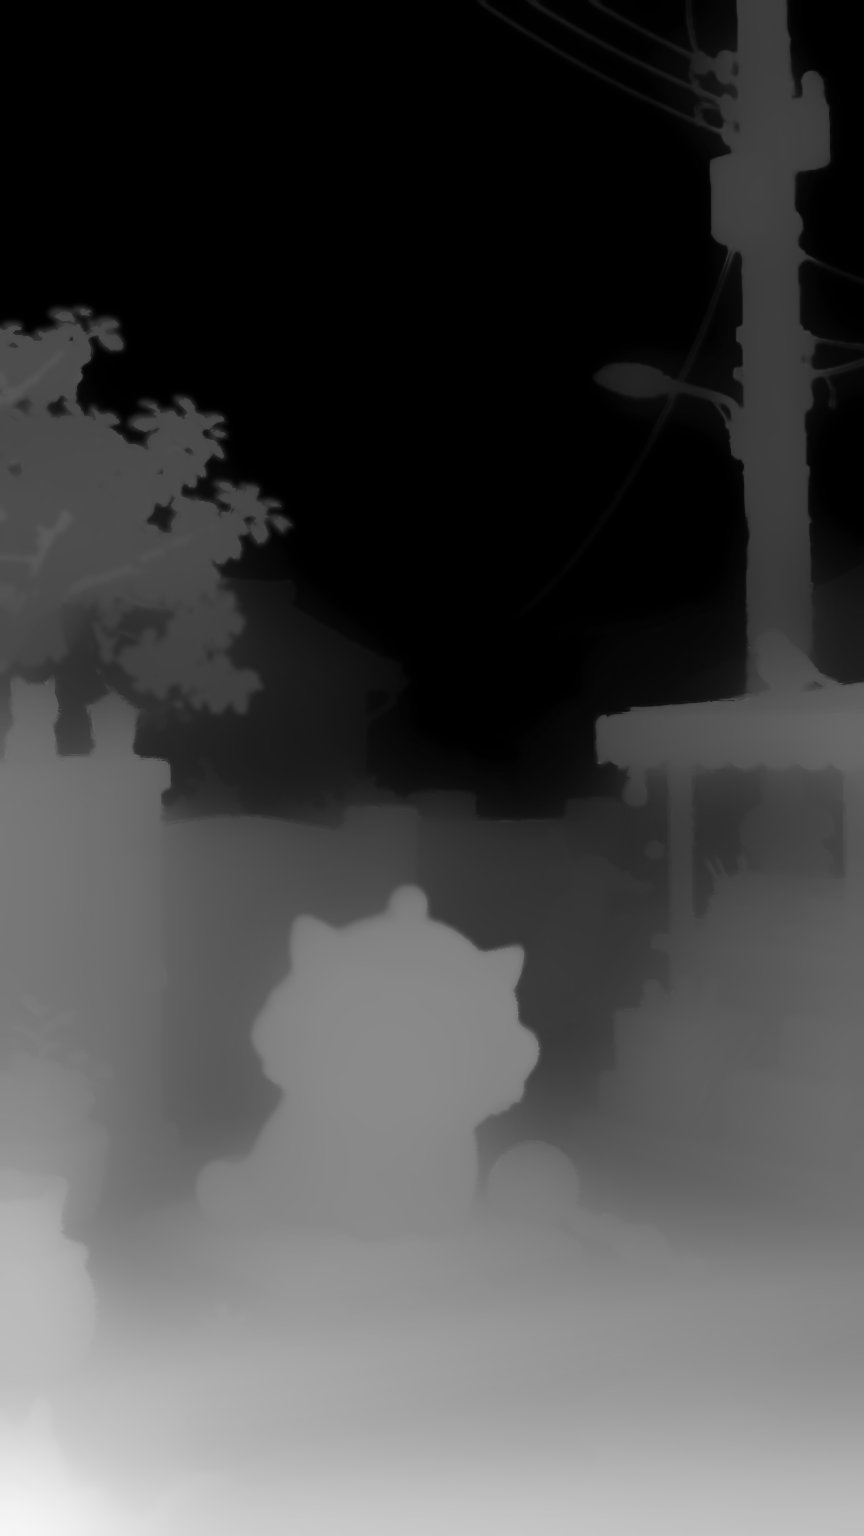
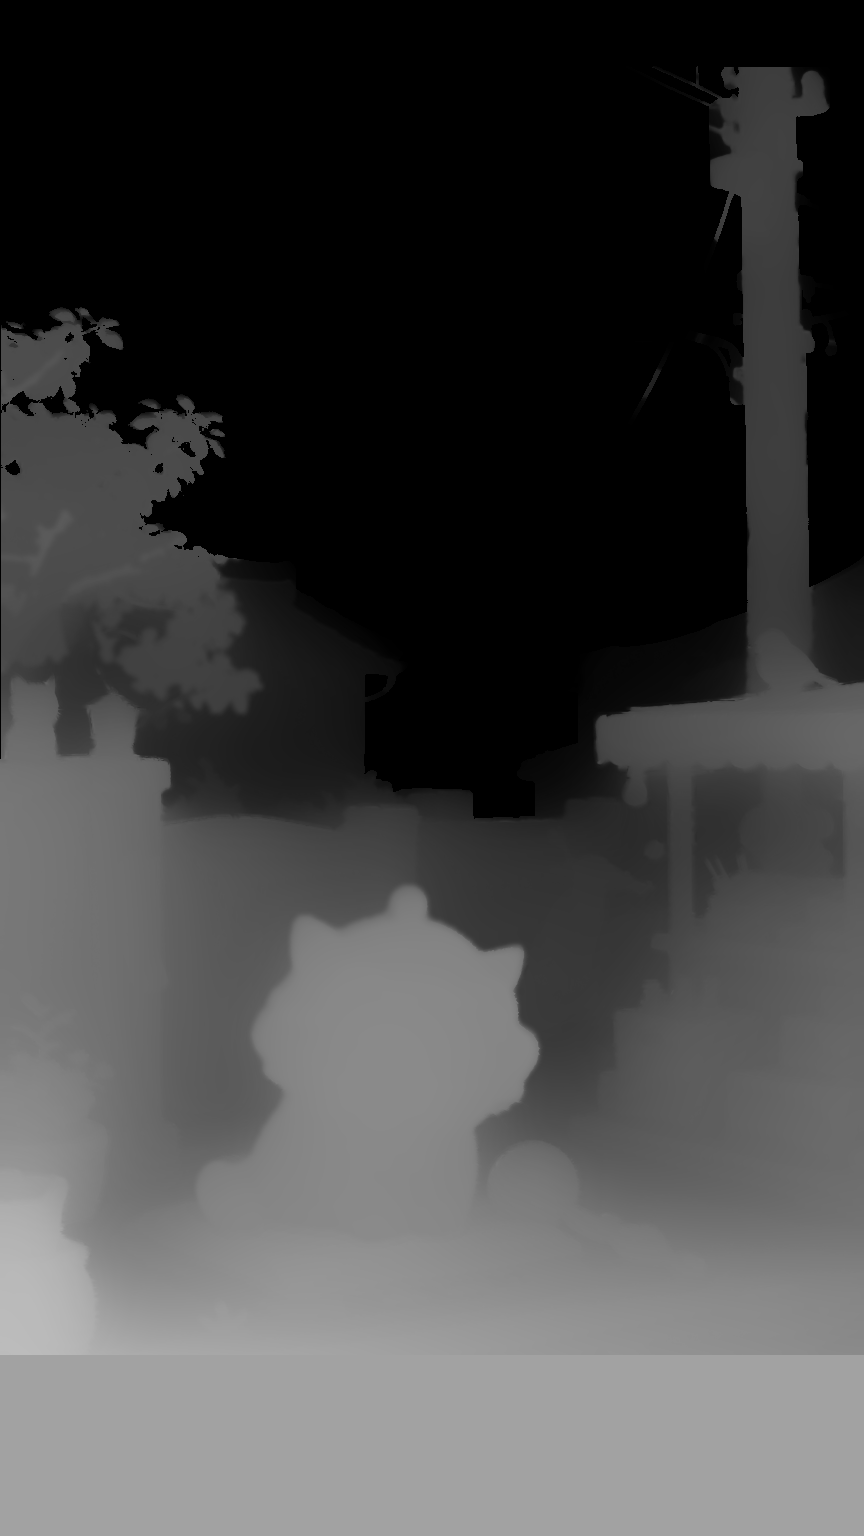
lab3: fix letterbox, bring the backdrop forward, show Namsan
- Keep the 864-aligned foreground (cat sits on the cushion correctly) and extend the
  bottom pavement to fill the letterbox.
- Reposition the skyline backdrop so the Namsan tower lands in the foreground's
  sky-gap, and pull it forward (zBias -1.9 -> -0.7) so far/near parallax don't open
  big empty gaps.
- Gentler depth (depthScale 1.2) to remove the distorted feel.

diff --git a/app.js b/app.js
@@ -19,7 +19,7 @@ const sceneParam = new URLSearchParams(location.search).get("scene");
 const P3D = sceneParam ? `./assets/photo3d_${sceneParam}/` : "./assets/photo3d/";
 // asset cache-buster: bump on any rebuilt PNG so phones don't serve a stale image
 // (index.html's ?v= only refreshes the code, not these depth/colour PNGs).
-const AV = "?a=lab3a";
+const AV = "?a=lab3c";
 // core layers always present; protect.png (v2) / subject.png (v3 soft-LDI) are
 // loaded optionally and decide which front-layer path runs (see below).
 const ASSETS = {
@@ -59,7 +59,7 @@ const VIEW = {
 // stronger near pop (depthScale up) for a richer, more separated perspective.
 const SCENE_OVERRIDES = {
   lab1: { depthScale: 1.65, farScale: 0.78, focus: 0.24 },
-  lab3: { depthScale: 1.6, farScale: 0.7, focus: 0.26 },
+  lab3: { depthScale: 1.2, farScale: 0.5, focus: 0.3 },
 };
 Object.assign(VIEW, SCENE_OVERRIDES[sceneParam] || {});
 
@@ -238,7 +238,7 @@ function initLab3() {
           uDepthScale: { value: 0.0 }, // flat backdrop
           uFarScale: { value: 1.0 },
           uFocus: { value: 0.0 },
-          uZBias: { value: -1.9 }, // pushed back so it parallaxes least
+          uZBias: { value: -0.7 }, // close behind so the gap stays small
           uCover: { value: cover },
         },
         vertexShader: VERT,

diff --git a/index.html b/index.html
@@ -11,7 +11,7 @@
     <meta name="apple-mobile-web-app-title" content="Cat Lock" />
     <meta name="apple-mobile-web-app-status-bar-style" content="black-translucent" />
     <link rel="manifest" href="./manifest.webmanifest" />
-    <link rel="stylesheet" href="./style.css?v=mesh-40" />
+    <link rel="stylesheet" href="./style.css?v=mesh-42" />
     <title>Cat Depth Lock</title>
     <script type="importmap">
       {
@@ -55,6 +55,6 @@
     </main>
 
     <script src="https://unpkg.com/lucide@0.468.0/dist/umd/lucide.min.js" defer></script>
-    <script type="module" src="./app.js?v=mesh-40"></script>
+    <script type="module" src="./app.js?v=mesh-42"></script>
   </body>
 </html>
